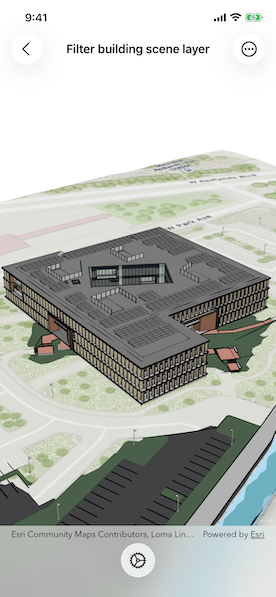
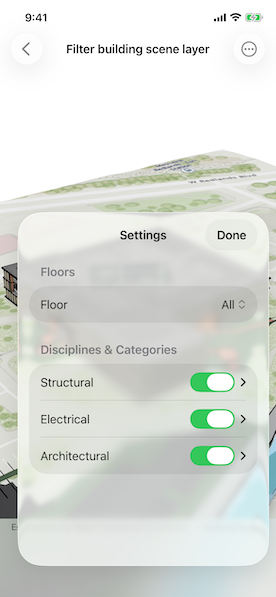
Update filter BSL README

diff --git a/Shared/Samples/Filter building scene layer/README.md b/Shared/Samples/Filter building scene layer/README.md
@@ -10,17 +10,29 @@ Buildings and their component parts (in this example, structural, electrical, or
 
 ## How to use the sample
 
-In the filter controls, select floor and category options to filter what parts of the Building Scene Layer are displayed in the scene. Tap on any of the building features to identify them.
+Once the scene is loaded, click the "Settings" gear button to view the filtering options.
+
+* Select a floor from the "Floor" menu to view the internal details of each floor or "All" to view the entire model. Selecting a floor applies a filter that hides all floors above the selected floor and gives the floors below a transparent, X-ray renderer.
+* Expand the categories under the top-level disciplines to show or hide individual categories in the building model. The entire discipline may be shown or hidden as well.
+* Click on any features in the building to view the attributes of the feature.
 
 ## How it works
 
 1. Create a `Scene` with the URL to a Building Scene Layer service.
 2. Create a `LocalSceneView` with the scene.
 3. Retrieve the `BuildingSceneLayer` from the scene's operational layers.
-4. When a floor is selected, a `BuildingFilter` is created with two `BuildingFilterBlocks`. One highlights the selected floor, the second applies an x-ray view style to the floors below the selected floor.
-5. Apply the filter to the `activeFilter` of the `BuildingSceneLayer` to view the changes to the model.
-6. Select or deselect categories or sublayers to toggle the visibility of the features in those sublayers.
-7. Tap on the building features to perform an identify operation on the `BuildingSceneLayer`. If a feature is identified, a popup with the feature's attribute will be displayed.
+4. When a floor is selected:
+    1. A new `BuildingFilter` is created with two `BuildingFilterBlock` objects.
+    2. One block defines the solid renderer for features on the selected floor.
+    3. The second block defines the X-ray filter for features on the floors below the selected floor.
+    4. Features that exist on floors above the selected floor are not rendered.
+    5. If “All” is selected, the `activeFilter` property on the building scene layer is set to `nil` so all features are rendered according to their default settings.
+5. Architectural disciplines and categories are represented by `BuildingGroupSublayer` and `BuildingSublayer` objects containing features within a building scene layer. When checked or unchecked, the visibility of the group or sublayer is set to true (visible) or false (hidden).
+6. When a building feature is clicked on:
+    1. A call to `identify(on:screenPoint:tolerance:returnPopupsOnly:maximumResults:)` on the `LocalSceneViewProxy` is
+       initiated based on a change of the tap location.
+    2. The `sublayerResults` property of the returned `IdentifyLayerResult` will contain the identified features. Note that the building scene layer features are NOT returned in the `geoElements` property of the results.
+    3. The details of the first identified feature are shown in a popup.
 
 ## Relevant API
 
